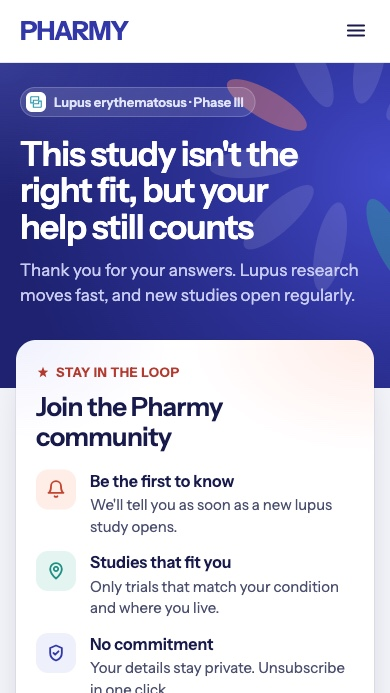
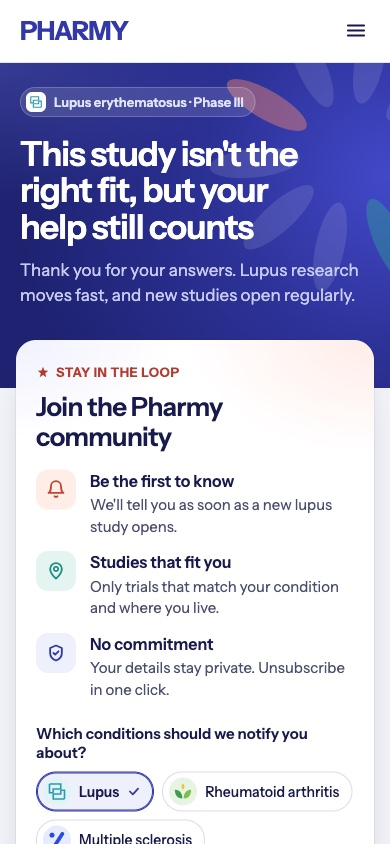
Pharmy case study: phone frame is now 390x844 like the mockups; form, community and map mockups re-cropped so no UI is lost

diff --git a/src/assets/css/site.css b/src/assets/css/site.css
@@ -985,8 +985,8 @@ html { scroll-padding-top: 7rem; }
 .cd-shot { margin: 0; min-width: 0; }
 .cd-slot { display: grid; place-items: center; aspect-ratio: 16 / 10; padding: 1rem; border: 1px dashed var(--line-2); border-radius: var(--r-md); background: var(--card); text-align: center; }
 .cd-slot span { font-family: var(--f-mono); font-size: .75rem; letter-spacing: .02em; line-height: 1.4; color: var(--text-2); }
-.cd-shot--phone .cd-slot { aspect-ratio: 9 / 16; }
-.cd-shot--phone img { aspect-ratio: 9 / 16; object-fit: cover; object-position: top; } /* one phone format for the whole project */
+.cd-shot--phone .cd-slot { aspect-ratio: 390 / 844; }
+.cd-shot--phone img { aspect-ratio: 390 / 844; object-fit: contain; object-position: top; } /* one phone format for the whole project (390 × 844, as in the mockups); older, shorter captures keep their full width */
 .cd-shots--1 { max-width: 34rem; }
 @media (min-width: 640px) { .cd-shots--2 { grid-template-columns: repeat(2, minmax(0, 1fr)); } .cd-shots--3 { grid-template-columns: repeat(3, minmax(0, 1fr)); } }
 @media (max-width: 639px) { .cd-shots:has(.cd-shot--phone) { grid-template-columns: repeat(3, minmax(0, 1fr)); } .cd-shot--phone .cd-slot { padding: .4rem; } .cd-shot--phone .cd-slot span { font-size: .62rem; } }
